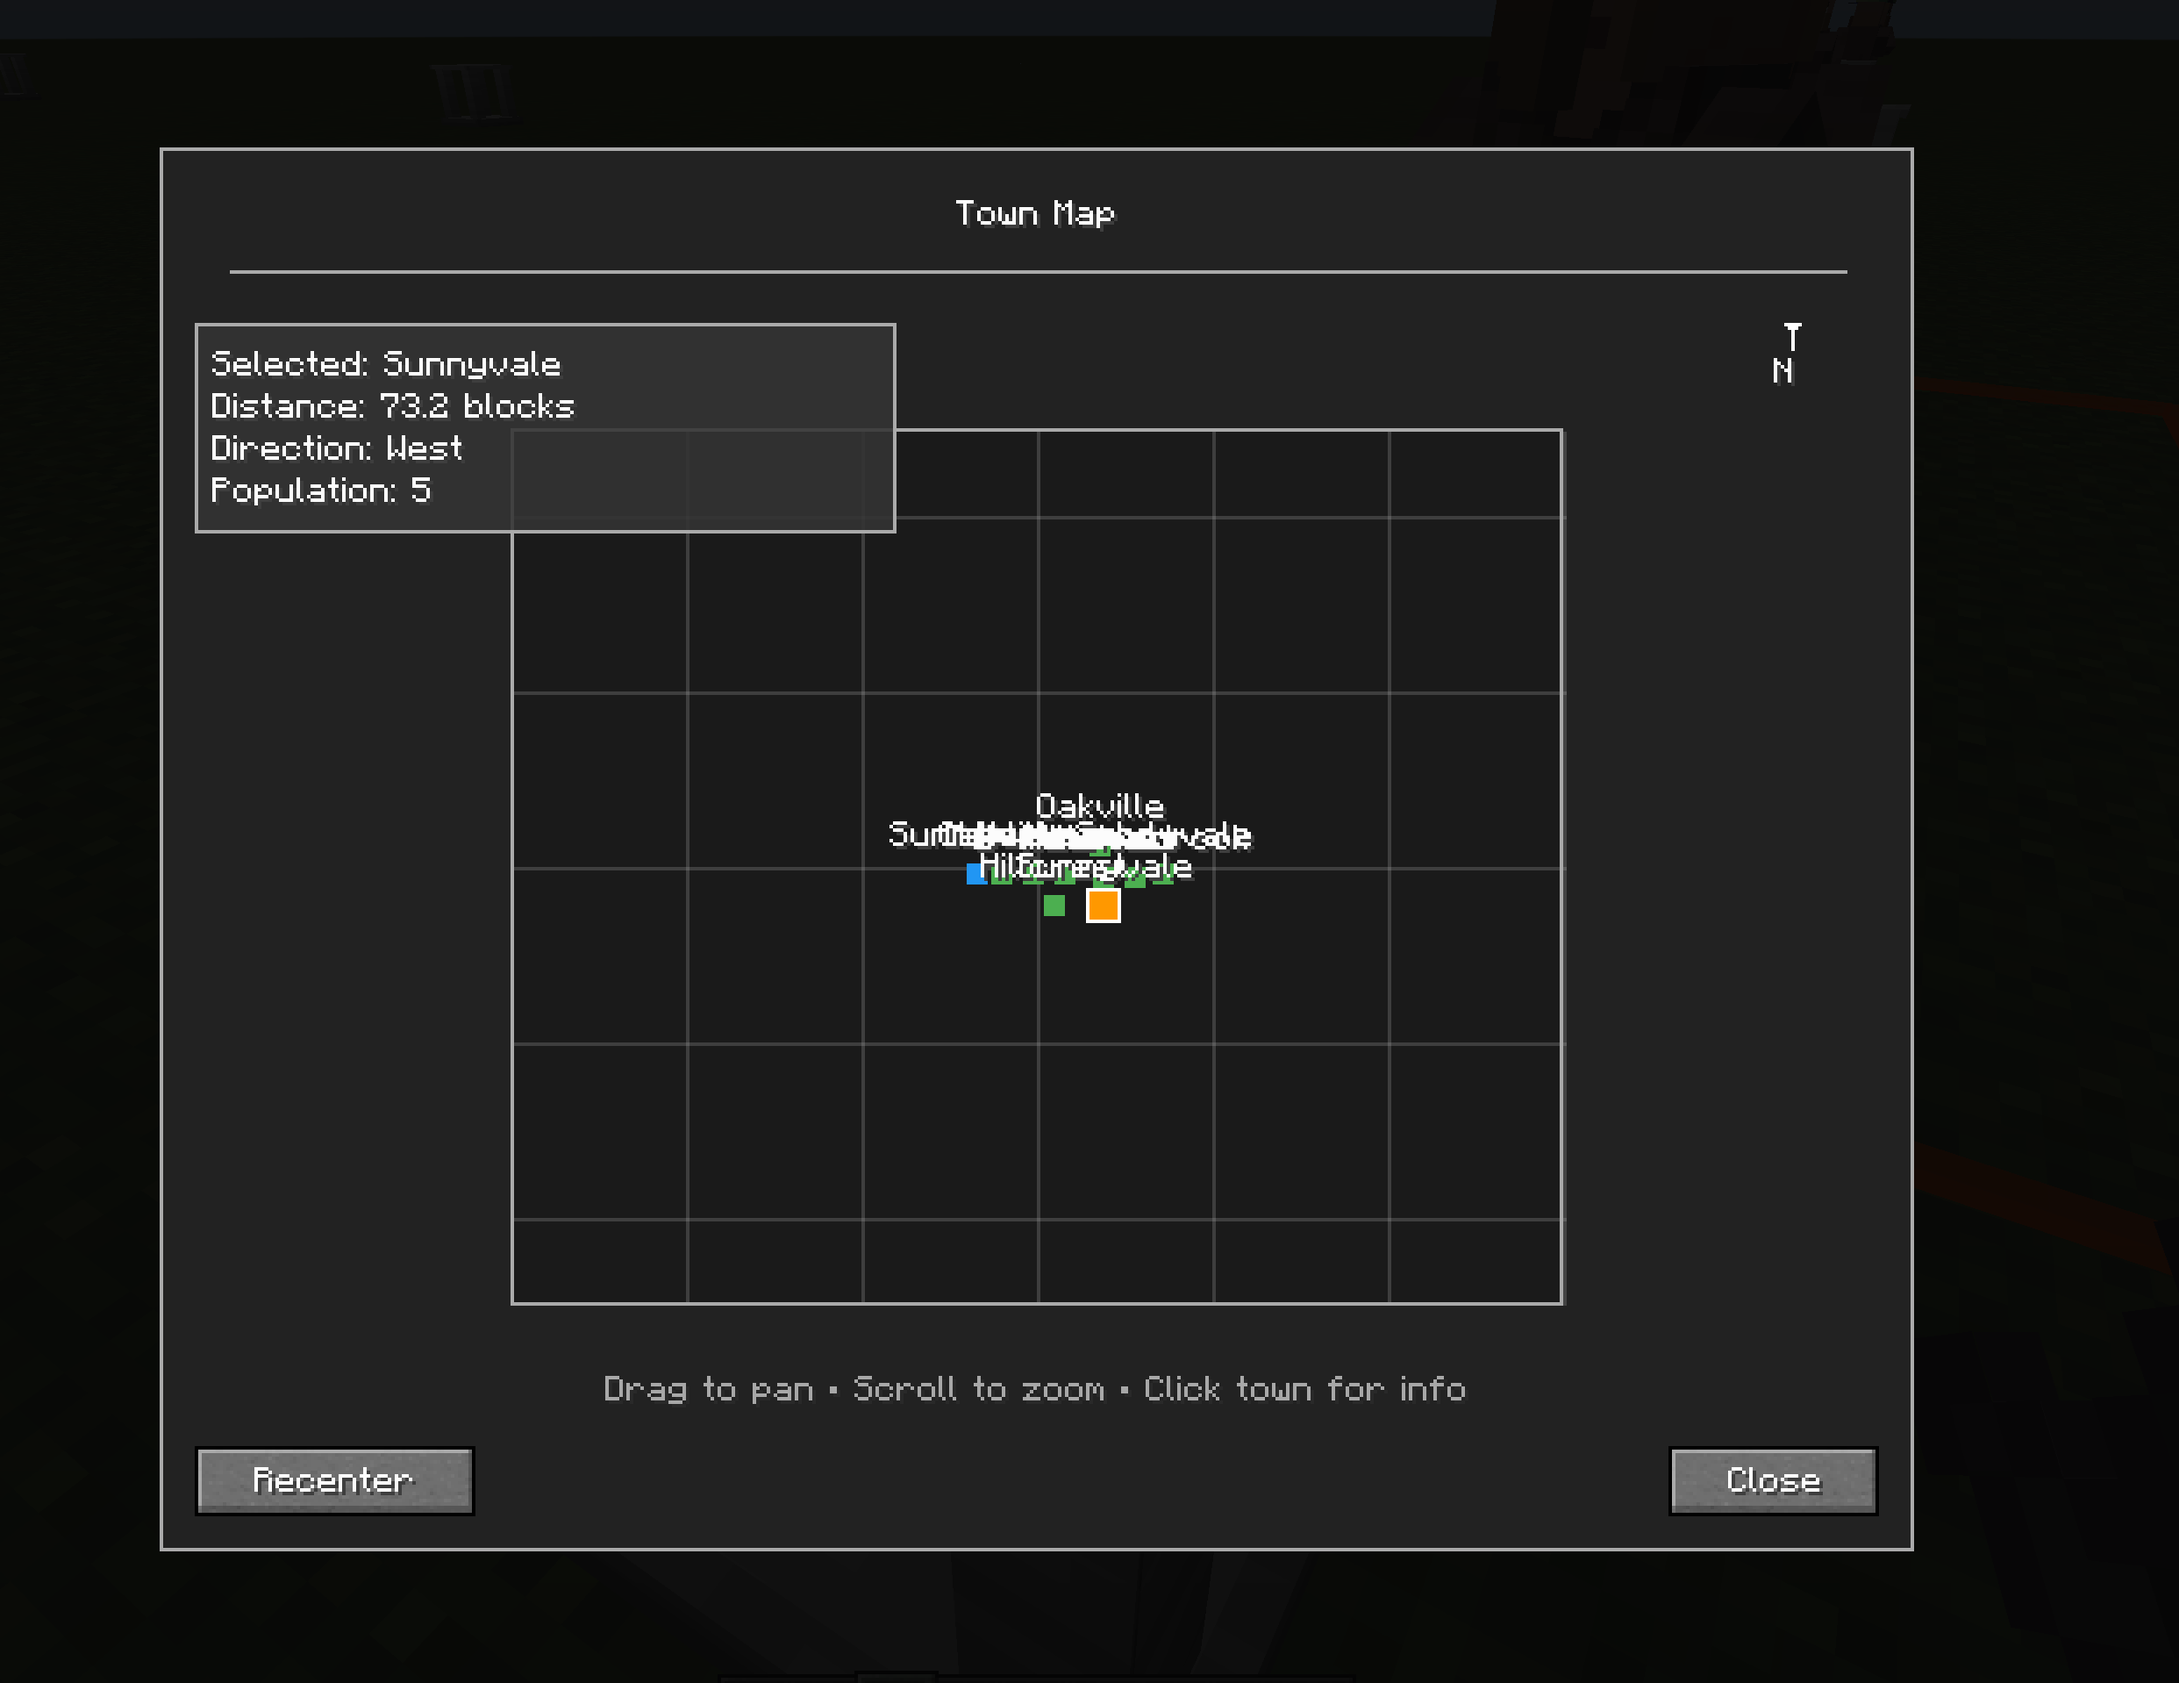
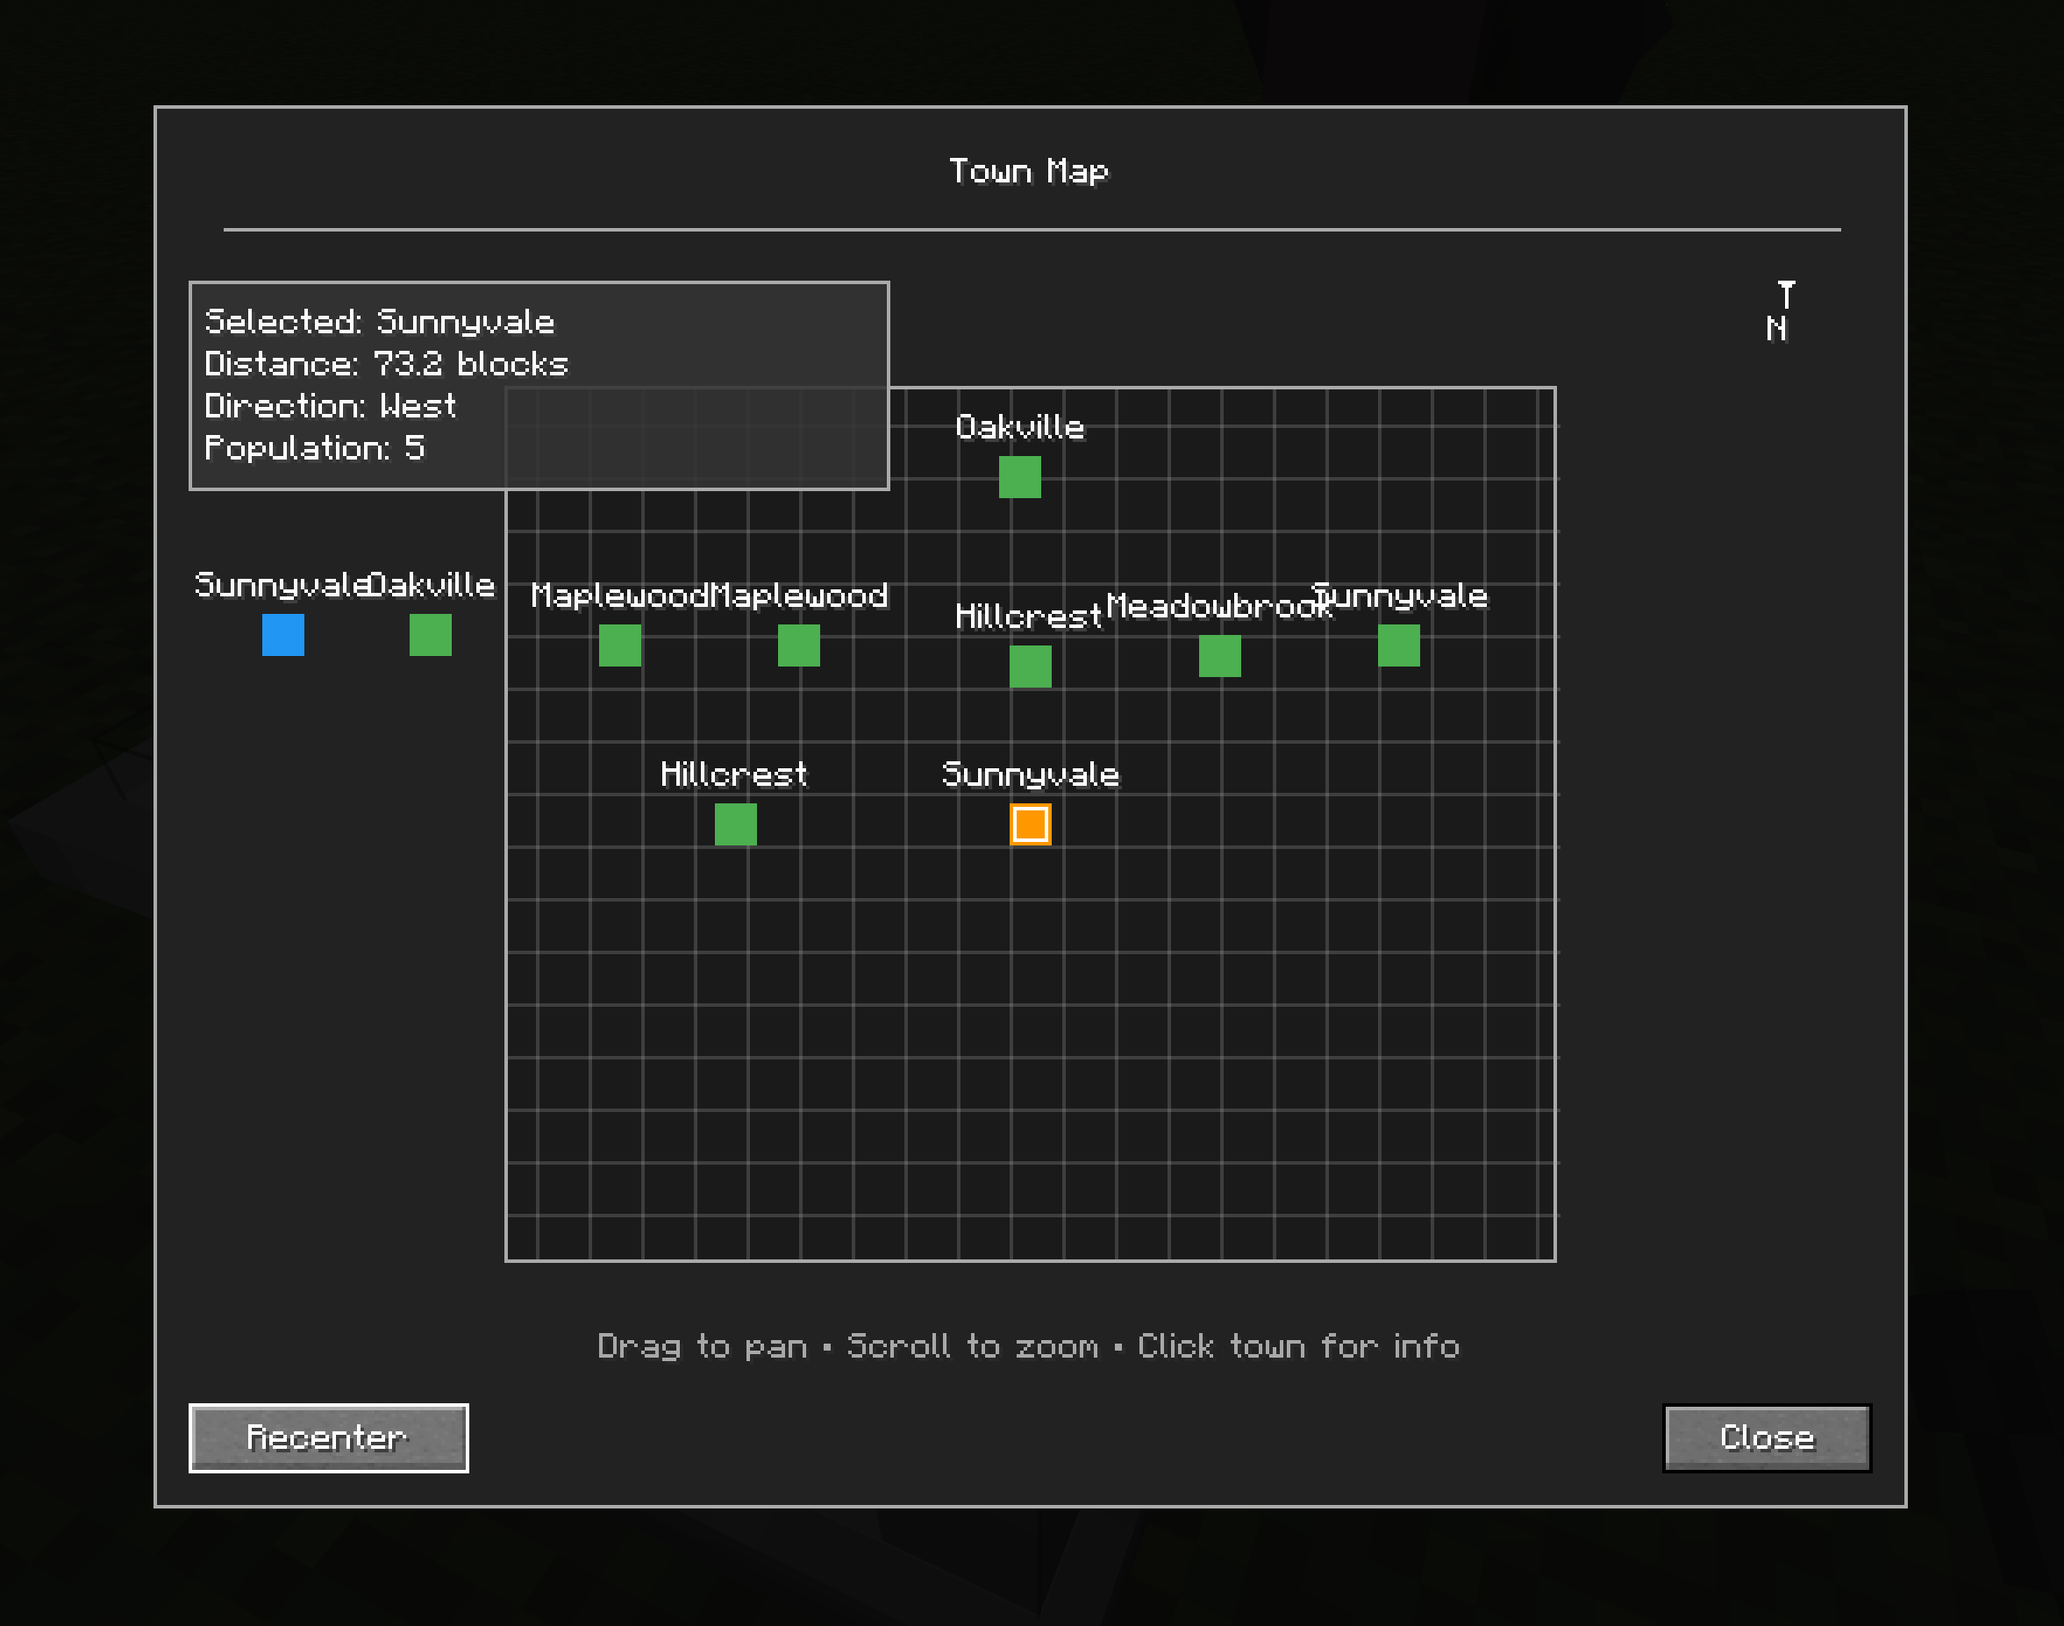
Map UI part 2

diff --git a/src/main/java/com/yourdomain/businesscraft/ui/modal/specialized/TownMapModal.java b/src/main/java/com/yourdomain/businesscraft/ui/modal/specialized/TownMapModal.java
@@ -320,27 +320,80 @@ public class TownMapModal extends Screen {
     }
     
     /**
-     * Draw grid lines for reference
+     * Draw adaptive grid lines for reference
      */
     private void drawGridLines(GuiGraphics guiGraphics) {
         int mapLeft = mapCenterX - mapWidth / 2;
         int mapTop = mapCenterY - mapHeight / 2;
         int gridColor = 0x40AAAAAA;
         
-        // Draw vertical lines every 50 world coordinates
-        for (int worldX = (int)(mapOffsetX - 500); worldX < mapOffsetX + 500; worldX += 100) {
+        // Calculate adaptive grid spacing based on zoom level
+        int baseGridSpacing = getAdaptiveGridSpacing();
+        
+        // Calculate the world coordinates visible on screen
+        double viewWidthInWorld = mapWidth / (zoomLevel * 0.1);
+        double viewHeightInWorld = mapHeight / (zoomLevel * 0.1);
+        
+        // Calculate starting positions for grid lines
+        int startX = ((int)(mapOffsetX - viewWidthInWorld / 2) / baseGridSpacing) * baseGridSpacing;
+        int startZ = ((int)(mapOffsetZ - viewHeightInWorld / 2) / baseGridSpacing) * baseGridSpacing;
+        
+        // Draw vertical lines
+        for (int worldX = startX; worldX <= mapOffsetX + viewWidthInWorld / 2; worldX += baseGridSpacing) {
             int screenX = worldToScreenX(worldX);
             if (screenX >= mapLeft && screenX <= mapLeft + mapWidth) {
                 guiGraphics.vLine(screenX, mapTop, mapTop + mapHeight, gridColor);
             }
         }
         
-        // Draw horizontal lines every 50 world coordinates
-        for (int worldZ = (int)(mapOffsetZ - 500); worldZ < mapOffsetZ + 500; worldZ += 100) {
+        // Draw horizontal lines
+        for (int worldZ = startZ; worldZ <= mapOffsetZ + viewHeightInWorld / 2; worldZ += baseGridSpacing) {
             int screenY = worldToScreenZ(worldZ);
             if (screenY >= mapTop && screenY <= mapTop + mapHeight) {
                 guiGraphics.hLine(mapLeft, mapLeft + mapWidth, screenY, gridColor);
             }
+        }
+    }
+    
+    /**
+     * Calculate adaptive grid spacing based on zoom level
+     */
+    private int getAdaptiveGridSpacing() {
+        // Grid spacing adapts to zoom level for optimal visibility
+        if (zoomLevel >= 20.0) {
+            return 5; // Very fine grid for extreme zoom
+        } else if (zoomLevel >= 10.0) {
+            return 10; // Fine grid for high zoom
+        } else if (zoomLevel >= 5.0) {
+            return 25; // Medium grid for medium zoom
+        } else if (zoomLevel >= 2.0) {
+            return 50; // Standard grid for normal zoom
+        } else if (zoomLevel >= 1.0) {
+            return 100; // Coarse grid for low zoom
+        } else if (zoomLevel >= 0.5) {
+            return 200; // Very coarse grid for very low zoom
+        } else {
+            return 500; // Extremely coarse grid for extreme zoom out
+        }
+    }
+    
+    /**
+     * Calculate adaptive marker size based on zoom level
+     */
+    private int getAdaptiveMarkerSize() {
+        // Marker size adapts to zoom level for better visibility
+        if (zoomLevel >= 15.0) {
+            return 12; // Large markers for extreme zoom
+        } else if (zoomLevel >= 8.0) {
+            return 10; // Medium-large markers for high zoom
+        } else if (zoomLevel >= 3.0) {
+            return 8; // Standard markers for medium zoom
+        } else if (zoomLevel >= 1.0) {
+            return 6; // Default markers for normal zoom
+        } else if (zoomLevel >= 0.3) {
+            return 4; // Small markers for low zoom
+        } else {
+            return 3; // Very small markers for extreme zoom out
         }
     }
     
@@ -373,8 +426,8 @@ public class TownMapModal extends Screen {
             markerColor = CURRENT_TOWN_COLOR;
         }
         
-        // Draw marker (small filled rectangle)
-        int markerSize = 6;
+        // Draw marker with size that scales with zoom level
+        int markerSize = getAdaptiveMarkerSize();
         guiGraphics.fill(screenX - markerSize/2, screenY - markerSize/2, 
                         screenX + markerSize/2, screenY + markerSize/2, markerColor);
         
@@ -544,9 +597,10 @@ public class TownMapModal extends Screen {
     @Override
     public boolean mouseScrolled(double mouseX, double mouseY, double delta) {
         if (isInMapArea((int)mouseX, (int)mouseY)) {
-            // Zoom in/out
-            double zoomFactor = delta > 0 ? 1.2 : 0.8;
-            zoomLevel = Math.max(0.1, Math.min(5.0, zoomLevel * zoomFactor));
+            // Zoom in/out with better scaling
+            // At max zoom (30x), the map should show roughly 10 blocks wide
+            double zoomFactor = delta > 0 ? 1.3 : (1.0 / 1.3);
+            zoomLevel = Math.max(0.05, Math.min(30.0, zoomLevel * zoomFactor));
             
             DebugConfig.debug(LOGGER, DebugConfig.UI_MANAGERS, "Map zoom level: {}", zoomLevel);
             return true;
@@ -576,7 +630,7 @@ public class TownMapModal extends Screen {
                 int townScreenX = worldToScreenX(pos.getX());
                 int townScreenY = worldToScreenZ(pos.getZ());
                 
-                int markerSize = 6;
+                int markerSize = getAdaptiveMarkerSize();
                 if (screenX >= townScreenX - markerSize && screenX <= townScreenX + markerSize &&
                     screenY >= townScreenY - markerSize && screenY <= townScreenY + markerSize) {
                     return town;
